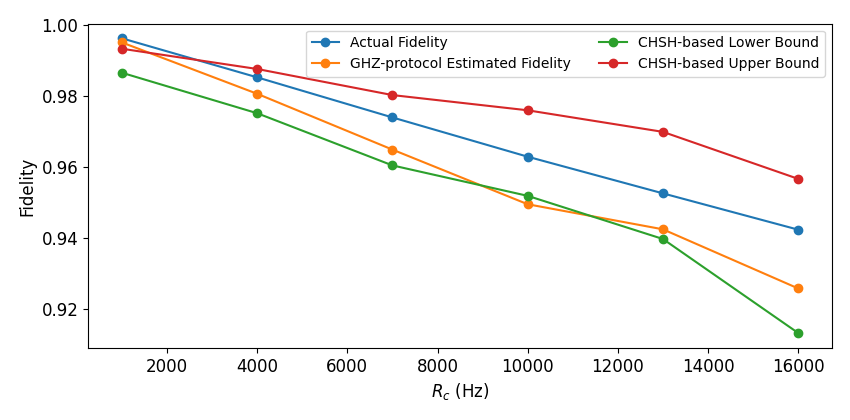
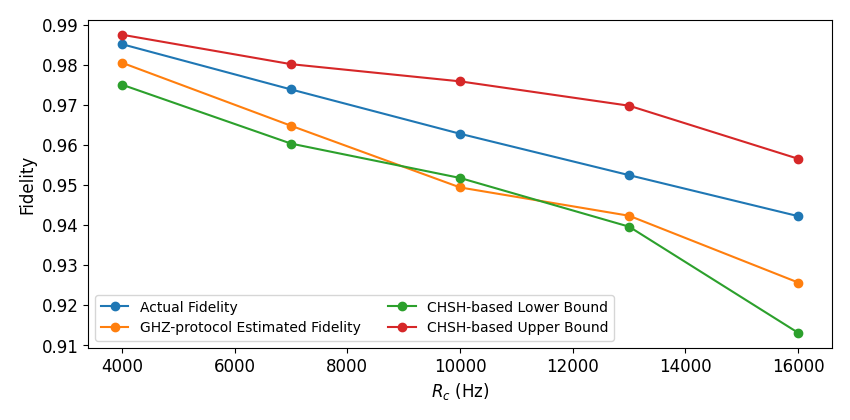
error rate pictures

diff --git a/new_chsh/results/plot_figure_both.py b/new_chsh/results/plot_figure_both.py
@@ -4,16 +4,14 @@ Extended plotting script: GHZ **and** matching CHSH-based estimates
 ===========================================================
 This keeps the original API and variable names while adding:
 
-* **process_chsh_results** – scans sister folders with suffix `_chsh`, extracts Run 1 `s_value` and computes lower/upper CHSH‐based fidelity bounds:
+* **process_chsh_results** – scans sister folders with suffix `_chsh`, extracts Run 1 `s_value` and computes lower/upper CHSH‐based fidelity bounds.
+* **plot_figure** – overlays Actual vs. GHZ-protocol Estimated Fidelity (and CHSH bounds when available). For **Change Depolar Rate**, discards any rates ≤ 2000 Hz and only plots starting at 4000 Hz.
+* **plot_error_rate** – computes three error‐rate curves:
+  - GHZ‐protocol Error Rate = (GHZ_est − Actual) / Actual
+  - CHSH‐based Lower Bound Error Rate = (CHSH_low − Actual) / Actual
+  - CHSH‐based Upper Bound Error Rate = (CHSH_up − Actual) / Actual
 
-  .. math::
-
-     F_{\text{lower}} = \frac{s}{2\sqrt{2}}, \qquad
-     F_{\text{upper}} = \frac{s}{4\sqrt{2}} + 0.5
-
-* **plot_figure** now overlays these bounds on the existing *Actual* vs. *GHZ‑protocol Estimated Fidelity* plot. If the companion folder is missing, the script shows only GHZ curves.
-
-All other functions, filenames, and CLI examples remain unchanged.
+Six figures in total (three fidelity and three error‐rate) are saved under `./figures`.
 """
 
 import json
@@ -29,7 +27,7 @@ import numpy as np
 # --------------------------------------------------------------------
 # Matplotlib global style
 # --------------------------------------------------------------------
-WIDTH = 8.5  # increased from 7 to widen figures and prevent label overlap
+WIDTH = 8.5
 HEIGHT = WIDTH * (np.sqrt(5) - 1.0) / 2.5
 plt.rcParams.update({
     "figure.figsize": (WIDTH, HEIGHT),
@@ -40,14 +38,10 @@ plt.rcParams.update({
 # --------------------------------------------------------------------
 # GHZ result processing (original behaviour)
 # --------------------------------------------------------------------
-
 def process_results(file_path: str, re_expressions: str) -> Tuple[
-    List[float],               # primary x‑axis factor values (sorted)
-    Optional[List[float]],     # optional secondary factor values
-    List[float],               # actual fidelities (mean)
-    List[float],               # estimated fidelities (2·p_ghz−1)
+    List[float], Optional[List[float]], List[float], List[float]
 ]:
-    """Parse GHZ JSON files in a folder (single‑run datasets)."""
+    """Parse GHZ JSON files in a folder."""
     factors, second_vals_dict = [], {}
     actual_dict, est_dict = {}, {}
     multi_factor = False
@@ -65,24 +59,25 @@ def process_results(file_path: str, re_expressions: str) -> Tuple[
             with open(Path(root, fname), "r", encoding="utf-8") as f:
                 data = json.load(f)
             actual = np.mean(list(data["actual_fid"].values())[0])
-            p_ghz = list(data["p_ghz"].values())[0]
-            est = 2 * p_ghz - 1
+            p_ghz  = list(data["p_ghz"].values())[0]
+            est    = 2 * p_ghz - 1
             actual_dict[factor] = actual
-            est_dict[factor] = est
+            est_dict[factor]    = est
+
     if multi_factor:
-        factors = sorted(second_vals_dict.keys())
+        factors     = sorted(second_vals_dict.keys())
         second_vals = [second_vals_dict[x] for x in factors]
     else:
-        factors = sorted(factors)
+        factors     = sorted(factors)
         second_vals = None
+
     actual = [actual_dict[x] for x in factors]
-    est = [est_dict[x] for x in factors]
+    est    = [est_dict[x]    for x in factors]
     return factors, second_vals, actual, est
 
 # --------------------------------------------------------------------
-# CHSH companion processing (new)
+# CHSH companion processing
 # --------------------------------------------------------------------
-
 def process_chsh_results(folder_chsh: str, re_expressions: str,
                          factors_order: List[float]) -> Tuple[List[float], List[float]]:
     """Compute CHSH-based lower/upper fidelity bounds aligned to factors_order."""
@@ -98,17 +93,17 @@ def process_chsh_results(folder_chsh: str, re_expressions: str,
             factor = float(m.group(1))
             with open(Path(root, fname), "r", encoding="utf-8") as f:
                 data = json.load(f)
-            s_val = list(data["s_value"].values())[0]  # Run‑1 only
-            low_d[factor] = s_val / (2 * sqrt(2))
-            up_d[factor] = s_val / (4 * sqrt(2)) + 0.5
+            s = list(data["s_value"].values())[0]
+            low_d[factor] = s / (2 * sqrt(2))
+            up_d[factor]  = s / (4 * sqrt(2)) + 0.5
+
     low = [low_d.get(x, np.nan) for x in factors_order]
-    up = [up_d.get(x, np.nan) for x in factors_order]
+    up  = [up_d.get(x, np.nan)  for x in factors_order]
     return low, up
 
 # --------------------------------------------------------------------
-# Generic line‑plot helper
+# Generic line-plot helper
 # --------------------------------------------------------------------
-
 def plot_lines(xs: Sequence[Sequence[float]],
                ys: Sequence[Sequence[float]],
                legends: Sequence[str],
@@ -118,7 +113,7 @@ def plot_lines(xs: Sequence[Sequence[float]],
                save_dir: str = "./figures",
                annotation: Optional[Sequence[float]] = None,
                ncols: int = 1):
-    """Draw multiple lines with small‑font legends and annotations."""
+    """Draw multiple lines with markers, legends, and optional annotations."""
     os.makedirs(save_dir, exist_ok=True)
     fig, ax = plt.subplots()
     for x, y, leg in zip(xs, ys, legends):
@@ -127,7 +122,8 @@ def plot_lines(xs: Sequence[Sequence[float]],
             for i, (xi, yi) in enumerate(zip(x, y)):
                 if i < len(annotation):
                     ax.annotate(f"{annotation[i]}", (xi, yi),
-                                textcoords="offset points", xytext=(0, 5), ha="center", fontsize=8)
+                                textcoords="offset points", xytext=(0, 5),
+                                ha="center", fontsize=8)
     ax.set_xlabel(x_label)
     ax.set_ylabel(y_label)
     ax.legend(ncols=ncols, fontsize=10)
@@ -136,73 +132,138 @@ def plot_lines(xs: Sequence[Sequence[float]],
     plt.close()
 
 # --------------------------------------------------------------------
-# High‑level plotting routine with special Sample Size handling
+# Error-rate plotting helper (three curves)
 # --------------------------------------------------------------------
+def plot_error_rate_triplet(factors: List[float],
+                            actual: List[float],
+                            ghz_est: List[float],
+                            chsh_low: List[float],
+                            chsh_up: List[float],
+                            title: str,
+                            x_label: str,
+                            save_dir: str = "./figures"):
+    """
+    Compute three error‐rate curves:
+      - GHZ‐protocol: (ghz_est − actual) / actual
+      - CHSH‐lower:   (chsh_low − actual) / actual
+      - CHSH‐upper:   (chsh_up − actual) / actual
+    and plot them together.
+    """
+    os.makedirs(save_dir, exist_ok=True)
+    err_ghz = [(e - a) / a for a, e in zip(actual, ghz_est)]
+    err_lo  = [(l - a) / a for a, l in zip(actual, chsh_low)]
+    err_hi  = [(u - a) / a for a, u in zip(actual, chsh_up)]
 
+    legends = ["GHZ-protocol Error Rate",
+               "CHSH-based Lower Bound Error Rate",
+               "CHSH-based Upper Bound Error Rate"]
+    ys = [err_ghz, err_lo, err_hi]
+
+    fig, ax = plt.subplots()
+    for y, leg in zip(ys, legends):
+        ax.plot(factors, y, label=leg, marker="o")
+    ax.set_xlabel(x_label)
+    ax.set_ylabel("Error Rate")
+    ax.legend(fontsize=10)
+    plt.tight_layout()
+    plt.savefig(Path(save_dir) / f"{title}_error.png")
+    plt.close()
+
+# --------------------------------------------------------------------
+# High-level fidelity routine
+# --------------------------------------------------------------------
 def plot_figure(folder: str,
                 re_expr: str,
                 title: str,
                 x_label: str,
                 save_dir: str = "./figures"):
-    """Plot GHZ and CHSH-based curves; special x‑axis for sample size."""
+    """Plot fidelity curves; sample size and depolar rate get custom handling."""
     factors, second_vals, actual, est = process_results(folder, re_expr)
     low, up = process_chsh_results(f"{folder}_chsh", re_expr, factors)
-    ys = [actual, est]
+
+    # filter out ≤2000 Hz and start at 4000 Hz for depolar-rate plots
+    if title == "Change Depolar Rate":
+        idx = [i for i, f in enumerate(factors) if f >= 4000]
+        factors    = [factors[i]    for i in idx]
+        actual     = [actual[i]     for i in idx]
+        est        = [est[i]        for i in idx]
+        low        = [low[i]        for i in idx]
+        up         = [up[i]         for i in idx]
+        if second_vals is not None:
+            second_vals = [second_vals[i] for i in idx]
+
+    ys      = [actual, est]
     legends = ["Actual Fidelity", "GHZ-protocol Estimated Fidelity"]
     if not np.all(np.isnan(low)):
-        ys += [low, up]
+        ys      += [low, up]
         legends += ["CHSH-based Lower Bound", "CHSH-based Upper Bound"]
+
     annotation = second_vals if second_vals is not None else None
+
     if title == "Change Sample Size":
-        # Custom x‑axis labels
+        # custom x-axis labels for sample size
         fig, ax = plt.subplots()
-        for x, y, leg in zip([factors] * len(ys), ys, legends):
+        for x, y, leg in zip([factors]*len(ys), ys, legends):
             ax.plot(x, y, label=leg, marker="o")
         ax.set_xlabel("Sample Number")
         ax.set_ylabel("Fidelity")
-        ax.set_xticks([0.1, 0.2, 0.3, 0.4, 0.5, 0.6])
-        ax.set_xticklabels(["5k", "10k", "15k", "20k", "25k", "30k"])
+        ax.set_xticks([0.1,0.2,0.3,0.4,0.5,0.6])
+        ax.set_xticklabels(["5k","10k","15k","20k","25k","30k"])
         ax.legend(ncols=2, fontsize=10)
         plt.tight_layout()
         plt.savefig(Path(save_dir) / f"{title}_fid.png")
         plt.close()
     else:
-        plot_lines([factors] * len(ys), ys, legends,
+        plot_lines([factors]*len(ys), ys, legends,
                    f"{title}_fid", x_label, "Fidelity",
                    save_dir=save_dir, annotation=annotation, ncols=2)
 
 # --------------------------------------------------------------------
-# Convenience wrapper for twin folders
+# Wrapper for twin folders: fidelity + error
 # --------------------------------------------------------------------
-
-def plot_figure_twin(folder1: str, folder2: str,
-                      re_expr: str, title: str,
-                      x_label: str, save_dir: str = "./figures"):
+def plot_all_twin(folder1: str, folder2: str,
+                  re_expr: str, title: str,
+                  x_label: str, save_dir: str = "./figures"):
+    # Fidelity plots
     plot_figure(folder1, re_expr, title, x_label, save_dir)
     plot_figure(folder2, re_expr, title, x_label, save_dir)
+    # Error‐rate plots (they use identical data)
+    # process once to get arrays
+    factors, _, actual, est = process_results(folder1, re_expr)
+    low, up = process_chsh_results(f"{folder1}_chsh", re_expr, factors)
+    # apply depolar-rate filter if needed
+    if title == "Change Depolar Rate":
+        idx = [i for i, f in enumerate(factors) if f >= 4000]
+        factors = [factors[i] for i in idx]
+        actual  = [actual[i]  for i in idx]
+        est     = [est[i]     for i in idx]
+        low     = [low[i]     for i in idx]
+        up      = [up[i]      for i in idx]
+    plot_error_rate_triplet(factors, actual, est, low, up,
+                            title, x_label, save_dir)
 
 # --------------------------------------------------------------------
-# CLI invocation updated for new folders
+# CLI invocation
 # --------------------------------------------------------------------
 if __name__ == "__main__":
-    # Depolarization rate sweep
-    plot_figure_twin(
+    # 1. Depolarization rate (fidelity + error)
+    plot_all_twin(
         "./change_channel_rate_result_0.1_60000",
         "./change_channel_rate_result_0.1_60000",
         r"channel_([\d\.]+)_",
         "Change Depolar Rate",
         r"$R_c$ (Hz)"
     )
-    # Node distance sweep
-    plot_figure_twin(
+    # 2. Node distance (fidelity + error)
+    plot_all_twin(
         "./change_distance_result_0.1_60000",
         "./change_distance_result_0.1_60000",
         r"distance_([\d\.]+)_",
         "Change Node Distance",
         r"$L$ (Km)"
     )
-    # Sample size sweep
-    plot_figure_twin(
+    # 3. Sample size (fidelity + error)
+    plot_all_twin(
         "./change_sample_size_result_0.1_50000",
         "./change_sample_size_result_0.1_50000",
         r"sample_([\d\.]+)_alpha",
